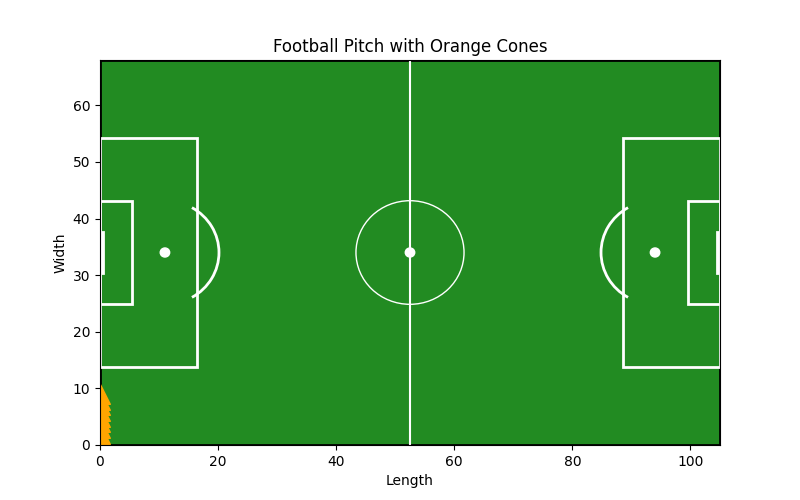
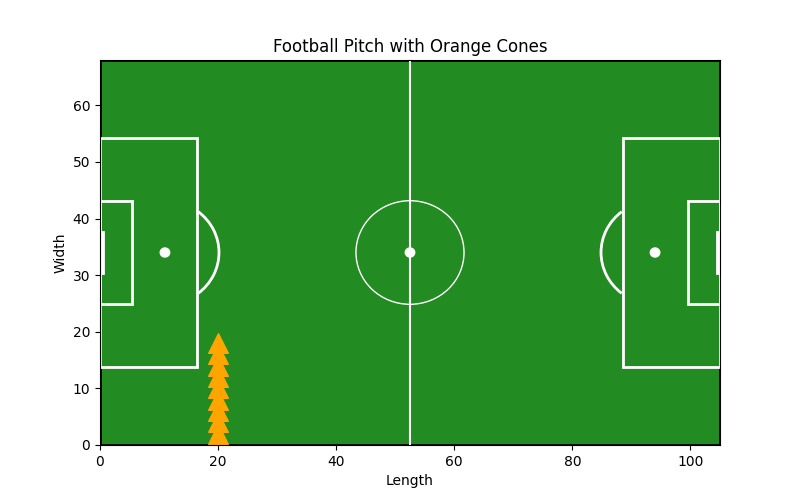
📝 ✨ feat: refactor cone position calculations in setupcones.py and improve formatting in draw_cone_layout.py

Changed region(s): [[0.25, 0.66, 0.2812, 0.9], [0.125, 0.78, 0.1562, 0.9]]

diff --git a/src/draw_cone_layout.py b/src/draw_cone_layout.py
@@ -17,7 +17,10 @@ CONE_MARKER = "^"
 PITCH_LENGTH = 105
 PITCH_WIDTH = 68
 PITCH_DIMENSIONS = (PITCH_LENGTH, PITCH_WIDTH)
-PENALTY_SPOT_POSITIONS = [(11, PITCH_WIDTH / 2), (PITCH_LENGTH - 11, PITCH_WIDTH / 2)]
+PENALTY_SPOT_POSITIONS = [
+    (11, PITCH_WIDTH / 2),
+    (PITCH_LENGTH - 11, PITCH_WIDTH / 2),
+]
 LINE_WIDTH = 2
 CENTER_CIRCLE_RADIUS = 9.15
 CENTER_SPOT_RADIUS = 0.8
@@ -30,6 +33,10 @@ GOAL_WIDTH = 7.32
 GOAL_DEPTH = 0.5
 PENALTY_ARC_RADIUS = 9.15
 HALFWAY_LINE_COORDS = ([PITCH_LENGTH / 2, PITCH_LENGTH / 2], [0, PITCH_WIDTH])
+PENALTY_ARC_THETA1 = 308
+PENALTY_ARC_THETA2 = 52
+PENALTY_ARC_THETA3 = 128
+PENALTY_ARC_THETA4 = 232
 
 
 class ConeLayoutDrawer:
@@ -90,7 +97,9 @@ class ConeLayoutDrawer:
 
     def draw_center_spot(self):
         center_spot = plt.Circle(
-            (PITCH_LENGTH / 2, PITCH_WIDTH / 2), CENTER_SPOT_RADIUS, color="white"
+            (PITCH_LENGTH / 2, PITCH_WIDTH / 2),
+            CENTER_SPOT_RADIUS,
+            color="white",
         )
         self.ax.add_artist(center_spot)
 
@@ -105,7 +114,10 @@ class ConeLayoutDrawer:
         )
         self.ax.add_patch(penalty_area)
         penalty_area = patches.Rectangle(
-            (PITCH_LENGTH - PENALTY_AREA_DEPTH, (PITCH_WIDTH - PENALTY_AREA_WIDTH) / 2),
+            (
+                PITCH_LENGTH - PENALTY_AREA_DEPTH,
+                (PITCH_WIDTH - PENALTY_AREA_WIDTH) / 2,
+            ),
             PENALTY_AREA_DEPTH,
             PENALTY_AREA_WIDTH,
             linewidth=LINE_WIDTH,
@@ -125,7 +137,10 @@ class ConeLayoutDrawer:
         )
         self.ax.add_patch(goal_area)
         goal_area = patches.Rectangle(
-            (PITCH_LENGTH - GOAL_AREA_DEPTH, (PITCH_WIDTH - GOAL_AREA_WIDTH) / 2),
+            (
+                PITCH_LENGTH - GOAL_AREA_DEPTH,
+                (PITCH_WIDTH - GOAL_AREA_WIDTH) / 2,
+            ),
             GOAL_AREA_DEPTH,
             GOAL_AREA_WIDTH,
             linewidth=LINE_WIDTH,
@@ -174,8 +189,8 @@ class ConeLayoutDrawer:
             2 * PENALTY_ARC_RADIUS,
             2 * PENALTY_ARC_RADIUS,
             angle=0,
-            theta1=300,
-            theta2=60,
+            theta1=PENALTY_ARC_THETA1,
+            theta2=PENALTY_ARC_THETA2,
             linewidth=LINE_WIDTH,
             edgecolor="white",
         )
@@ -185,8 +200,8 @@ class ConeLayoutDrawer:
             2 * PENALTY_ARC_RADIUS,
             2 * PENALTY_ARC_RADIUS,
             angle=0,
-            theta1=120,
-            theta2=240,
+            theta1=PENALTY_ARC_THETA3,
+            theta2=PENALTY_ARC_THETA4,
             linewidth=LINE_WIDTH,
             edgecolor="white",
         )
@@ -208,6 +223,13 @@ class ConeLayoutDrawer:
 
 
 if __name__ == "__main__":
-    cone_positions = [(10, 10), (20, 40), (30, 20), (50, 25), (70, 35), (90, 10)]
+    cone_positions = [
+        (10, 10),
+        (20, 40),
+        (30, 20),
+        (50, 25),
+        (70, 35),
+        (90, 10),
+    ]
     drawer = ConeLayoutDrawer(cone_positions, "cone_layout.png")
     drawer.save_plot()

diff --git a/src/setupcones.py b/src/setupcones.py
@@ -13,44 +13,23 @@ class ConeLayoutSetup:
         self.filename = filename
 
     def setup_zigzag(self):
-        cone_positions = [(i * 10, i * 10) for i in range(10)]
+        cone_positions = [(i * 6, 25 + (i % 2) * 12 - 6) for i in range(10)]
         self._draw_and_save(cone_positions, "zigzag_layout.png")
 
     def setup_diagonal(self):
-        cone_positions = [(i, i) for i in range(10)]
+        cone_positions = [(i * 6, i * 6) for i in range(10)]
         self._draw_and_save(cone_positions, "diagonal_layout.png")
 
     def setup_row(self):
-        cone_positions = [(i, 20) for i in range(10)]
+        cone_positions = [(i * 2, 20) for i in range(10)]
         self._draw_and_save(cone_positions, "row_layout.png")
 
     def setup_column(self):
-        cone_positions = [(20, i) for i in range(10)]
+        cone_positions = [(20, i * 2) for i in range(10)]
         self._draw_and_save(cone_positions, "column_layout.png")
 
     def setup_square(self):
-        cone_positions = [
-            (0, 0),
-            (0, 1),
-            (1, 0),
-            (1, 1),
-            (2, 0),
-            (2, 1),
-            (3, 0),
-            (3, 1),
-            (4, 0),
-            (4, 1),
-            (5, 0),
-            (5, 1),
-            (6, 0),
-            (6, 1),
-            (7, 0),
-            (7, 1),
-            (8, 0),
-            (8, 1),
-            (9, 0),
-            (9, 1),
-        ]
+        cone_positions = [(i // 2, i % 2) for i in range(20)]
         self._draw_and_save(cone_positions, "square_layout.png")
 
     def _draw_and_save(self, cone_positions, filename):
